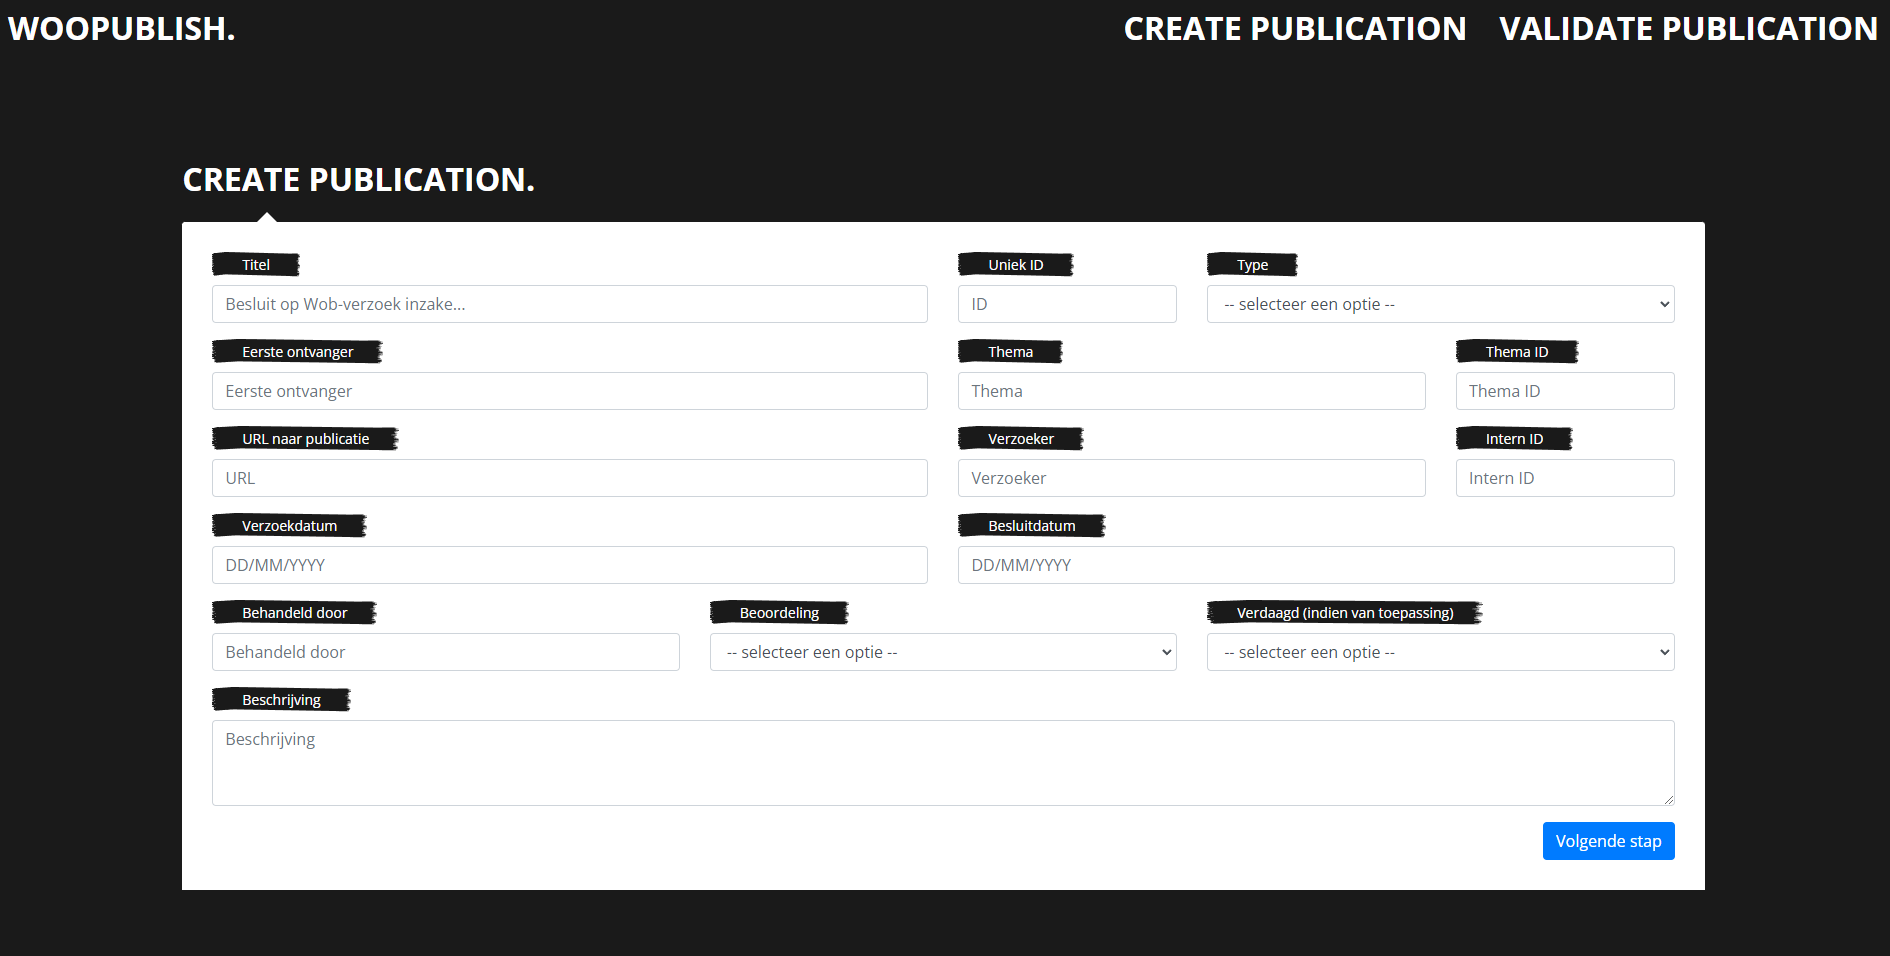
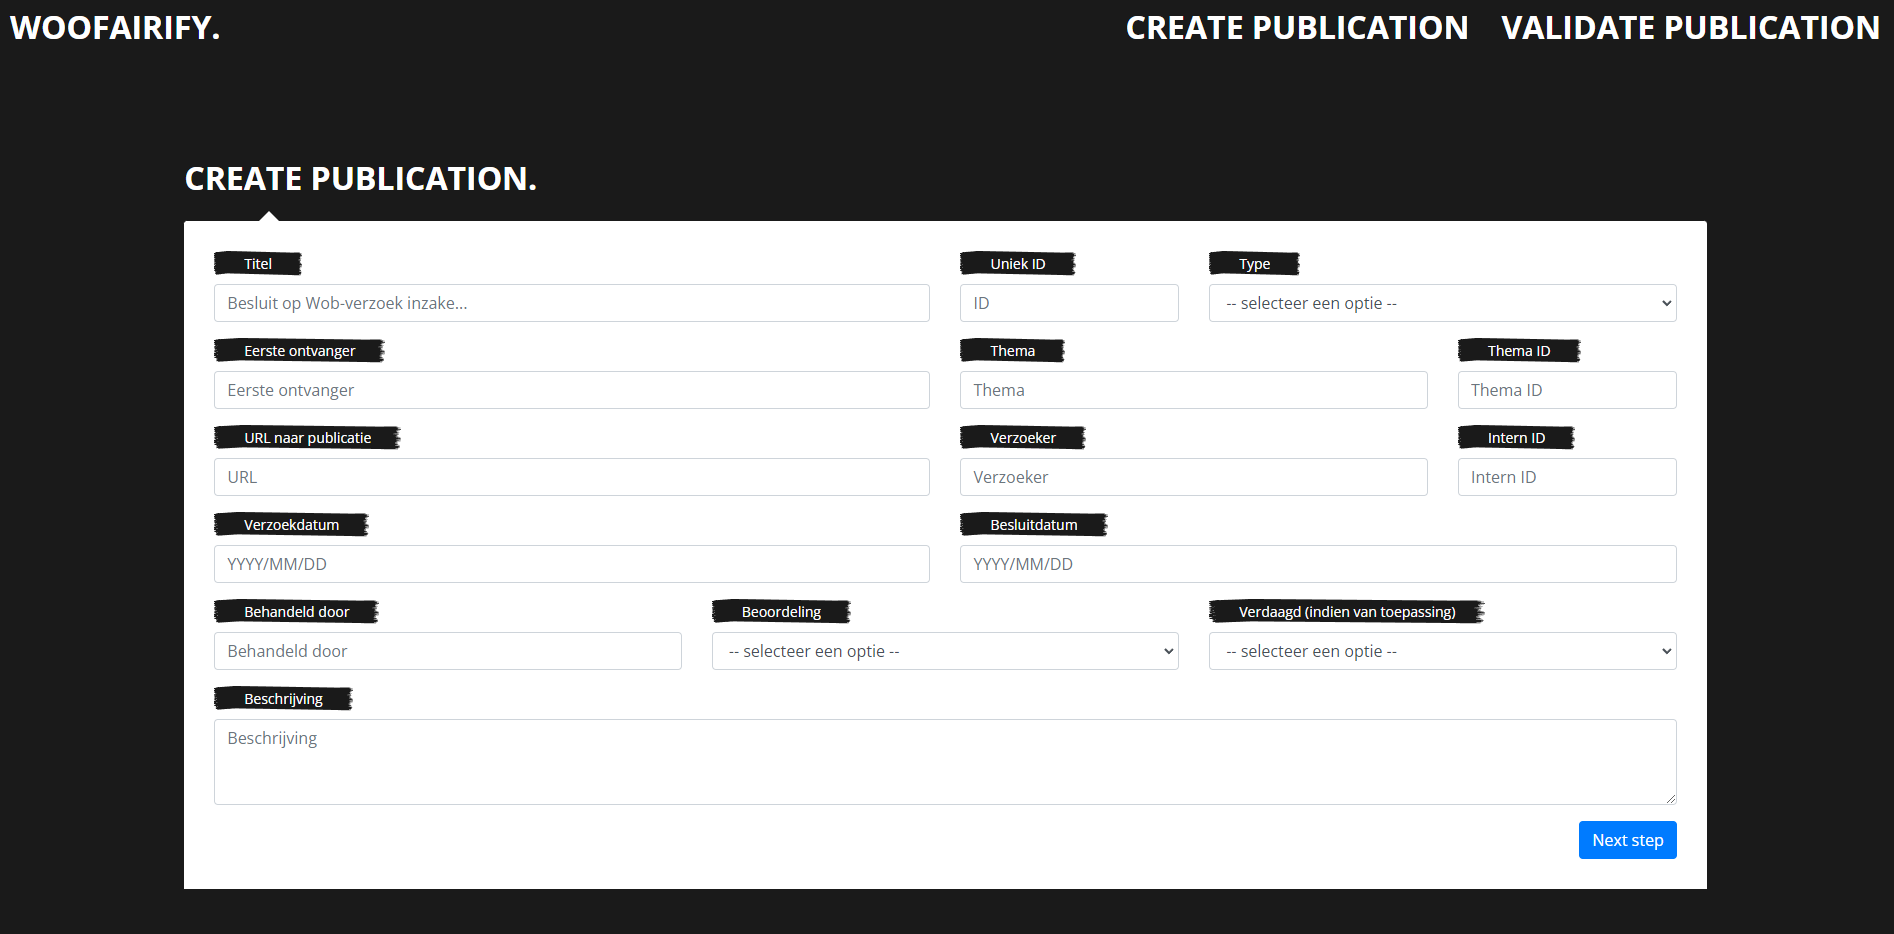
name change to WooFAIRify!

diff --git a/README.md b/README.md
@@ -1,8 +1,8 @@
-# Woopublish.
+# WooFAIRify
 Auteur: Maik Larooij (Universiteit van Amsterdam)
 
 ## Omschrijving
-Woopublish. is een simpele tool om Woo ([Wet open overheid](https://www.rijksoverheid.nl/onderwerpen/wet-open-overheid-woo)) besluiten te creëren en publiceren op een transparante wijze. Op deze manier voldoen de publicaties aan de FAIR data principes die zijn opgesteld door [Wilkinson et al. (2016)](https://www.nature.com/articles/sdata201618?ref=https://githubhelp.com). 
+WooFAIRify is een simpele tool om Woo ([Wet open overheid](https://www.rijksoverheid.nl/onderwerpen/wet-open-overheid-woo)) besluiten te creëren en publiceren op een transparante wijze. Op deze manier voldoen de publicaties aan de FAIR data principes die zijn opgesteld door [Wilkinson et al. (2016)](https://www.nature.com/articles/sdata201618?ref=https://githubhelp.com). 
 
 Een publicatie creëren kan met de volgende stappen:
 1. Vul de gegevens van de publicatie in. Voor meer informatie over de mogelijke gegevens, bekijk de [schema specificatie](documentation/schema_spec.md).
@@ -17,7 +17,7 @@ Mochten de gegevens niet valide zijn (ze voldoen niet aan de opgestelde eisen), 
 
 ## Demo met voorbeeld
 
-De hierboven geschetste stappen kunnen uitgevoerd worden op <https://woopublish.herokuapp.com/>. Het voorbeeld hieronder is uitgewerkt op <https://woopublish.herokuapp.com/exampleproduction>.
+De hierboven geschetste stappen kunnen uitgevoerd worden op <https://woofairify.herokuapp.com/>. Het voorbeeld hieronder is uitgewerkt op <https://woofairify.herokuapp.com/exampleproduction>.
 
 ## Voorbeeld
 [documentation/example publication](documentation/example%20publication) bevat een voorbeeldpublicatie. Het bevat de openbaar gemaakte documenten als losse pdf bestanden. Daarnaast is er een map met metadata waarin de ingevulde gegevens zijn te vinden in de vorm van een JSON (volledige publicatie) en een inventarislijst CSV (de losse documenten). 
